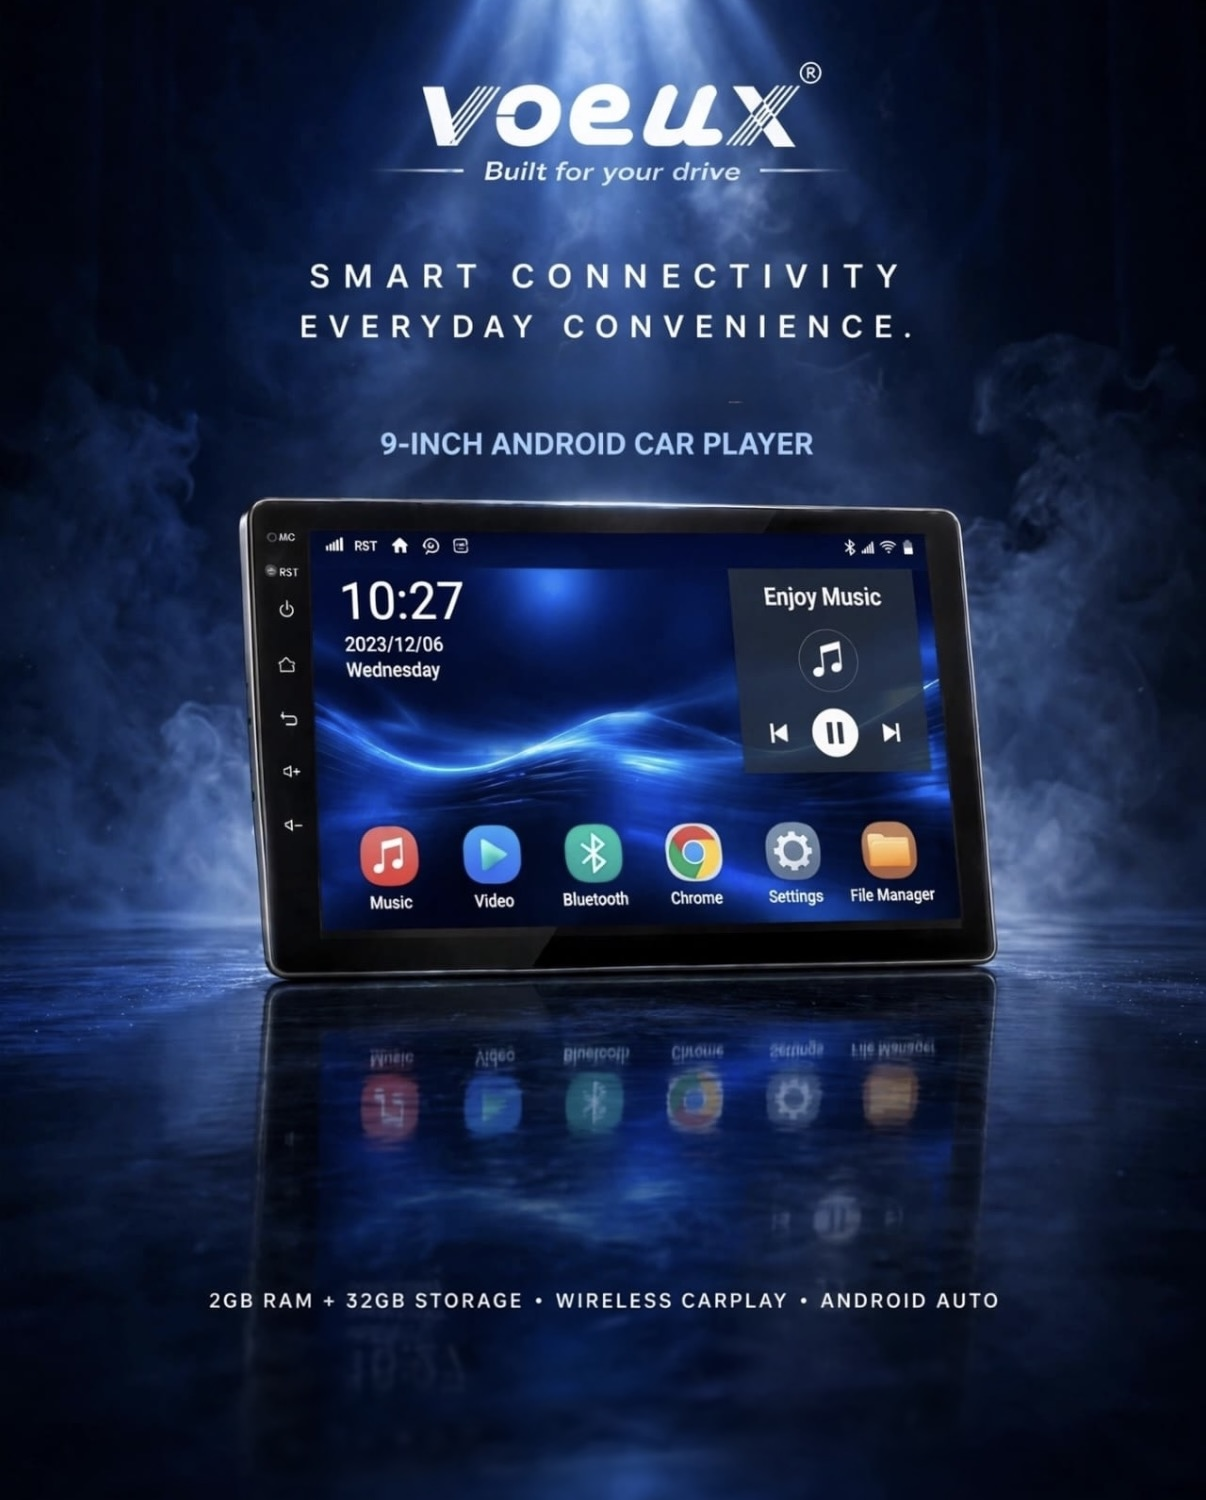
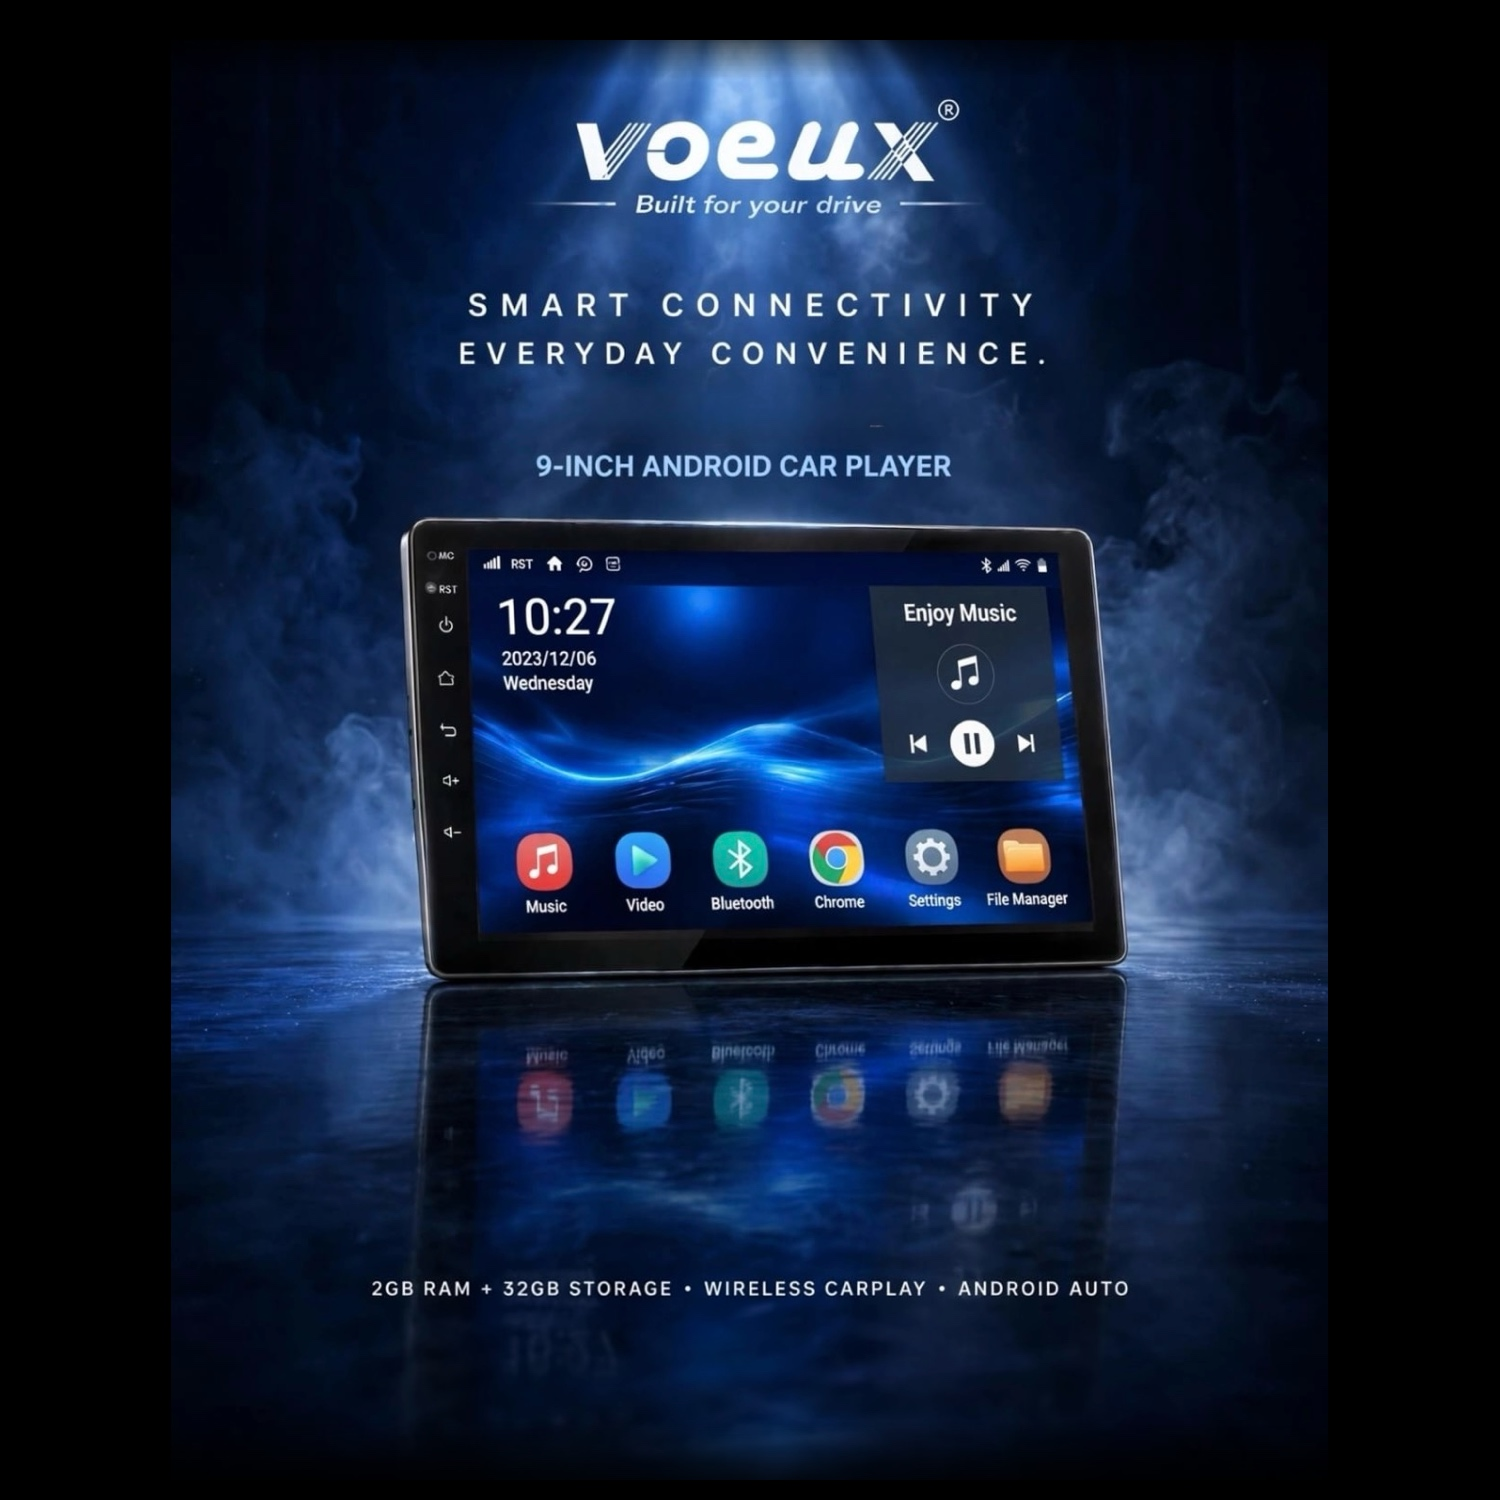
Add shade effect and increase desktop size for TS7 image, prevent top cropping on mobile

diff --git a/src/components/Hero.jsx b/src/components/Hero.jsx
@@ -52,7 +52,8 @@ export const Hero = () => {
       ctaText: 'Explore Carbon Black TS7',
       actionPage: 'android-players',
       featuredProduct: PRODUCTS.find(p => p.id === 'voeux-carbon-black-ts7-4-64') || PRODUCTS[0],
-      mobilePadding: 'p-5'
+      mobilePadding: 'p-5',
+      isTs7: true
     }
   ];
 
@@ -150,14 +151,18 @@ export const Hero = () => {
               <div
                 key={idx}
                 onClick={() => handleSlideClick(s)}
-                className="w-full h-full shrink-0 relative"
+                className="w-full h-full shrink-0 relative bg-black"
               >
                 <img
                   src={s.image}
                   alt={s.title}
                   loading="eager"
                   fetchPriority="high"
-                  className="w-full h-full object-cover object-center pointer-events-none"
+                  className={`w-full h-full pointer-events-none ${
+                    s.isTs7
+                      ? 'object-contain object-top'
+                      : 'object-cover object-center'
+                  }`}
                 />
               </div>
             ))}
@@ -264,7 +269,7 @@ export const Hero = () => {
         </div>
 
         {/* INSTANT PRELOADED EAGER IMAGES (GPU RAM CACHED) */}
-        <div className="absolute right-0 top-0 bottom-0 w-[55%] flex items-center justify-end pointer-events-none z-0 pr-8 lg:pr-16 xl:pr-24">
+        <div className="absolute right-0 top-0 bottom-0 w-[55%] lg:w-[60%] flex items-center justify-end pointer-events-none z-0 pr-8 lg:pr-16 xl:pr-24">
           {slides.map((s, idx) => (
             <img
               key={idx}
@@ -272,7 +277,11 @@ export const Hero = () => {
               alt={s.title}
               loading="eager"
               fetchPriority="high"
-              className={`absolute right-4 max-h-[85vh] max-w-[90%] object-contain object-right transition-all duration-500 ease-in-out group-hover:scale-105 ${
+              className={`absolute right-4 object-contain object-right transition-all duration-500 ease-in-out ${
+                s.isTs7
+                  ? 'max-h-[96vh] max-w-full scale-110 lg:scale-120 xl:scale-125 group-hover:scale-130 drop-shadow-[0_25px_60px_rgba(0,0,0,0.95)] [mask-image:radial-gradient(ellipse_at_center,black_65%,transparent_98%)]'
+                  : 'max-h-[85vh] max-w-[90%] group-hover:scale-105'
+              } ${
                 idx === currentSlide
                   ? 'opacity-95'
                   : 'opacity-0 pointer-events-none'
@@ -280,11 +289,11 @@ export const Hero = () => {
             />
           ))}
           
-          {/* Image Boundary Gradient Fades */}
-          <div className="absolute top-0 left-0 right-0 h-24 bg-gradient-to-b from-black to-transparent pointer-events-none z-20" />
-          <div className="absolute bottom-0 left-0 right-0 h-24 bg-gradient-to-b from-transparent to-black pointer-events-none z-20" />
-          <div className="absolute top-0 bottom-0 left-0 w-64 bg-gradient-to-r from-black via-black/80 to-transparent pointer-events-none z-20" />
-          <div className="absolute top-0 bottom-0 right-0 w-24 bg-gradient-to-l from-black to-transparent pointer-events-none z-20" />
+          {/* Image Boundary Gradient Fades / Shade Effect */}
+          <div className="absolute top-0 left-0 right-0 h-28 bg-gradient-to-b from-black via-black/70 to-transparent pointer-events-none z-20" />
+          <div className="absolute bottom-0 left-0 right-0 h-28 bg-gradient-to-b from-transparent via-black/70 to-black pointer-events-none z-20" />
+          <div className="absolute top-0 bottom-0 left-0 w-72 bg-gradient-to-r from-black via-black/85 to-transparent pointer-events-none z-20" />
+          <div className="absolute top-0 bottom-0 right-0 w-28 bg-gradient-to-l from-black via-black/60 to-transparent pointer-events-none z-20" />
         </div>
 
         {/* Dark Gradient Overlay for text readability (extended) */}
